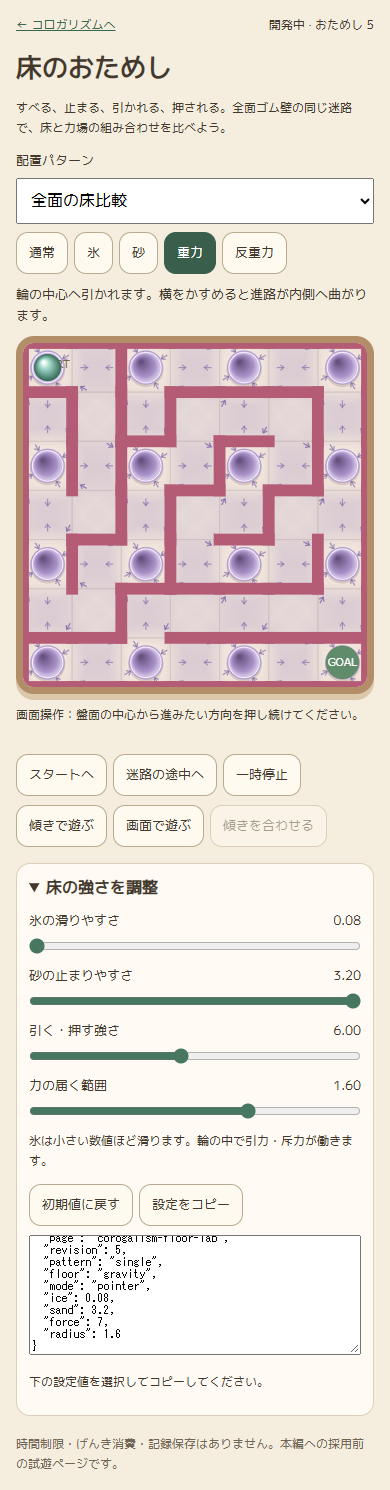
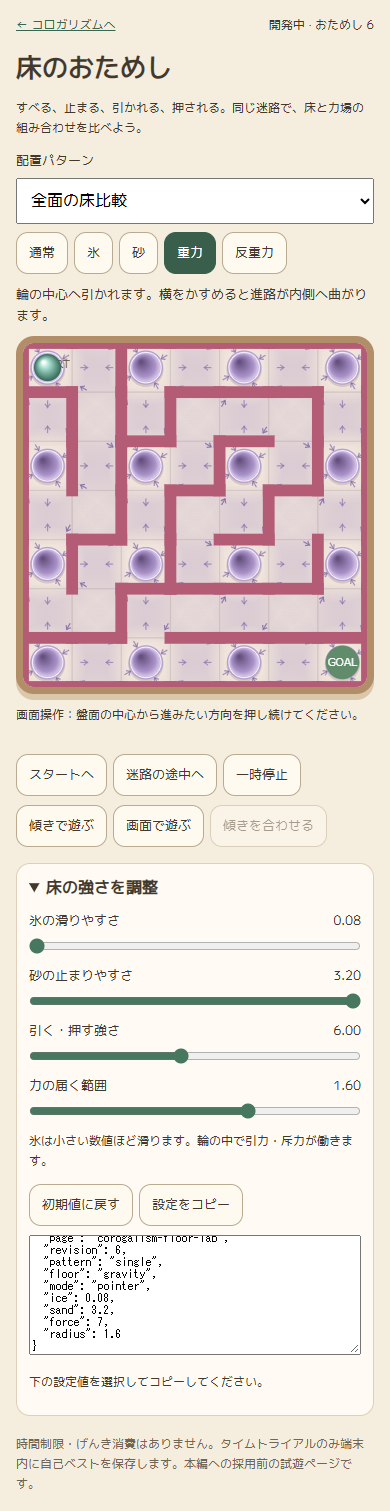
feat(T-252): add normal-wall ice and sand time trial

Changed region(s): [[0.0308, 0.0, 0.9538, 0.9879], [0.7077, 0.0, 0.7692, 0.0309], [0.9231, 0.1235, 0.9538, 0.1544]]

diff --git a/src/lab/floorLab.js b/src/lab/floorLab.js
@@ -1,3 +1,4 @@
+import { createTimeTrial, advanceTrial, trialKey, readTrialBest, saveTrialBest } from './timeTrial.js';
 import { BASE, FLOOR_LAB } from '../config/gameConfig.js';
 import { stepPhysics } from '../physics/integrator.js';
 import { createFixedCamera } from '../render/camera.js';
@@ -12,7 +13,16 @@ const $ = id => document.getElementById(id);
 const canvas = $('board'), ctx = canvas.getContext('2d');
 const { stage, actor } = createFloorLab();
 const settings = { ...FLOOR_LAB }, tilt = createTiltVector();
-let pattern = 'single';
+let pattern = new URLSearchParams(location.search).get('pattern') === 'timeTrial' ? 'timeTrial' : 'single';
+let trial = createTimeTrial();
+const trialStorage = { getItem: key => localStorage.getItem(key), setItem: (key, value) => localStorage.setItem(key, value) };
+function refreshTrial() {
+  $('trial-info').hidden = pattern !== 'timeTrial';
+  $('trial-time').textContent = (trial.elapsedMs / 1000).toFixed(2);
+  const best = readTrialBest(trialStorage, trialKey(settings, mode));
+  $('trial-best').textContent = best === null ? '—' : (best / 1000).toFixed(2) + ' 秒';
+  $('trial-note').textContent = trial.practice ? '途中移動・操作変更あり：練習のため記録しません。スタートへ戻すと再計測できます。' : '動き始めると計測開始。同じ床設定・操作方法ごとに記録します。';
+}
 let type = 'normal', mode = 'pointer', paused = false, last = 0, sensorTimer, requestId = 0;
 let camera, won = false, visualTime = 0;
 const reducedMotion = matchMedia('(prefers-reduced-motion: reduce)');
@@ -21,6 +31,7 @@ const sensor = createTiltSource({ onCalibrated: () => { $('status').textContent 
 const receive = (x, y) => tilt.setRaw(x, y);
 function pointerMode(message = '画面操作：盤面の中心から進みたい方向を押し続けてください。') {
   requestId++; clearTimeout(sensorTimer); sensor.stop(); pointer.stop(); tilt.reset();
+  if (mode !== 'pointer' && trial.started) trial.practice = true;
   mode = 'pointer'; pointer.start(receive); $('calibrate').disabled = true;
   $('status').textContent = message;
 }
@@ -36,7 +47,7 @@ $('sensor').onclick = async () => {
   const permission = await sensor.requestPermission();
   if (id !== requestId) return;
   if (permission === 'denied' || permission === 'unsupported') { pointerMode('センサーを利用できないため、画面操作で遊べます。'); return; }
-  pointer.stop(); tilt.reset(); mode = 'tilt'; sensor.calibrate();
+  pointer.stop(); tilt.reset(); if (mode !== 'tilt' && trial.started) trial.practice = true; mode = 'tilt'; sensor.calibrate();
   sensor.start(receive, () => BASE.maxTiltAngleDeg);
   $('calibrate').disabled = false;
   $('status').textContent = '縦持ちで遊ぶ姿勢のまま、少し静止してください。';
@@ -44,12 +55,13 @@ $('sensor').onclick = async () => {
 };
 $('pointer').onclick = () => pointerMode();
 $('calibrate').onclick = () => { tilt.reset(); sensor.calibrate(); $('status').textContent = '今の姿勢で少し静止してください。'; scheduleFallback(requestId); };
-function reset(x = 0.5, y = 0.5) { Object.assign(actor, { x, y, vx: 0, vy: 0 }); tilt.reset(); won = false; }
+function reset(x = 0.5, y = 0.5) { Object.assign(actor, { x, y, vx: 0, vy: 0 }); tilt.reset(); won = false; trial = createTimeTrial(); trial.practice = x !== .5 || y !== .5; refreshTrial(); if (pattern === 'timeTrial') $('status').textContent = trial.practice ? '途中から練習中。自己ベストには記録しません。' : '動き始めると計測します。砂の手前まで勢いをつけてみよう。'; }
 $('reset').onclick = () => reset();
 $('plaza').onclick = () => { const cell = stage.maze.path[stage.labSites.length ? Math.max(0, stage.labSites[0].index-2) : Math.floor(stage.maze.path.length / 2)]; reset(cell.x + .5, cell.y + .5); };
 $('pause').onclick = () => { paused = !paused; tilt.reset(); $('pause').textContent = paused ? '再開' : '一時停止'; };
 function updateFloor() {
   applyFloor(stage, type, settings, pattern);
+  refreshTrial();
   $('hint').textContent = pattern === 'single' ? FLOOR_OPTIONS[type].hint : PATTERNS[pattern].hint;
   $('floors').hidden = pattern !== 'single';
   $('plaza').textContent = stage.labSites.length ? '試験区間へ' : '迷路の途中へ';
@@ -57,16 +69,17 @@ function updateFloor() {
   for (const key of Object.keys(settings)) { $(key).value = settings[key]; $(key + '-value').textContent = settings[key].toFixed(2); }
 }
 for (const [key, option] of Object.entries(PATTERNS)) { const el = document.createElement('option'); el.value = key; el.textContent = option.name; $('pattern').append(el); }
+$('pattern').value = pattern;
 $('pattern').onchange = () => { pattern = $('pattern').value; updateFloor(); reset(); };
 for (const [key, option] of Object.entries(FLOOR_OPTIONS)) {
   const button = document.createElement('button'); button.textContent = option.name; button.dataset.type = key;
   button.onclick = () => { type = key; updateFloor(); reset(); };
   $('floors').append(button);
 }
-for (const key of Object.keys(settings)) $(key).oninput = () => { settings[key] = Number($(key).value); updateFloor(); };
+for (const key of Object.keys(settings)) $(key).oninput = () => { settings[key] = Number($(key).value); updateFloor(); if (pattern === 'timeTrial') reset(); };
 $('defaults').onclick = () => { Object.assign(settings, FLOOR_LAB); updateFloor(); reset(); };
 $('copy').onclick = async () => {
-  const text = JSON.stringify({ page: 'corogalism-floor-lab', revision: 5, pattern, floor: type, mode, ...settings }, null, 2);
+  const text = JSON.stringify({ page: 'corogalism-floor-lab', revision: 6, pattern, floor: type, mode, ...settings }, null, 2);
   $('settings-text').hidden = false; $('settings-text').value = text;
   try { await navigator.clipboard.writeText(text); $('copy-status').textContent = 'コピーしました。この設定と感想を送ってください。'; }
   catch { $('settings-text').focus(); $('settings-text').select(); $('copy-status').textContent = '下の設定値を選択してコピーしてください。'; }
@@ -95,7 +108,7 @@ function draw(now) {
     const p = camera.toScreen(x, y); ctx.strokeStyle = '#e8ddc8'; ctx.strokeRect(p.px, p.py, camera.toPx(1), camera.toPx(1));
   }
   drawFloorVisuals(ctx, camera, { type, settings, actor, time: visualTime, reduced: reducedMotion.matches, stage });
-  for (const wall of stage.walls) { const p = camera.toScreen(wall.x, wall.y); ctx.fillStyle = '#b45b76'; ctx.fillRect(p.px, p.py, camera.toPx(wall.w), camera.toPx(wall.h)); }
+  for (const wall of stage.walls) { const p = camera.toScreen(wall.x, wall.y); ctx.fillStyle = wall.materialId === 'rubber' ? '#b45b76' : '#ab865f'; ctx.fillRect(p.px, p.py, camera.toPx(wall.w), camera.toPx(wall.h)); }
   circle(6.5, 6.5, .34, '#618c6b'); label('GOAL', 6.5, 6.57, '#fff');
   label('START', .6, .5);
   const p = camera.toScreen(actor.x, actor.y), r = camera.toPx(actor.r);
@@ -105,17 +118,28 @@ function draw(now) {
   if (paused) label('一時停止中', 3.5, 3.2, '#44382c');
 }
 function frame(now) {
-  const dt = Math.min((now - (last || now)) / 1000, .05); last = now;
-  if (!paused && !document.hidden && !(mode === 'tilt' && sensor.needsCalibration)) {
+  const elapsed = Math.max(0, now - (last || now));
+  const dt = Math.min(elapsed / 1000, .05); last = now;
+  if (!(pattern === 'timeTrial' && trial.finished) && !paused && !document.hidden && !(mode === 'tilt' && sensor.needsCalibration)) {
     visualTime += dt * 1000;
     // 描画頻度による操作差を抑え、小さい刻みで既存の物理を進める。
     const count = Math.max(1, Math.ceil(dt / (1 / 120)));
     for (let i = 0; i < count; i++) { tilt.update(dt / count, BASE.inputSmoothing); stepPhysics({ actor, stage, tilt: tilt.value, base: BASE, dt: dt / count }); }
+    if (pattern === 'timeTrial') {
+      const wasFinished = trial.finished;
+      advanceTrial(trial, elapsed, Math.hypot(actor.x-.5,actor.y-.5)>.02, Math.hypot(actor.x-6.5,actor.y-6.5)<.35);
+      if (!wasFinished && trial.finished) {
+        const saved = saveTrialBest(trialStorage, trialKey(settings,mode), trial);
+        $('status').textContent = `ゴール！ ${(trial.elapsedMs/1000).toFixed(2)}秒。` + (trial.practice ? '練習のため記録対象外です。' : saved ? '自己ベストを確認しました。' : '端末に記録を保存できませんでした。');
+        won = true;
+      }
+    }
     if (!won && Math.hypot(actor.x - 6.5, actor.y - 6.5) < .35) { won = true; $('status').textContent = 'ゴール！ スタートへ戻るか、ほかの床でも試してみよう。'; }
   }
+  if (pattern === 'timeTrial') refreshTrial();
   draw(now); requestAnimationFrame(frame);
 }
 document.addEventListener('visibilitychange', () => { tilt.reset(); last = 0; if (document.hidden) { paused = true; $('pause').textContent = '再開'; } });
 window.addEventListener('blur', () => { tilt.reset(); paused = true; $('pause').textContent = '再開'; });
 pointerMode(); updateFloor(); requestAnimationFrame(frame);
-if (new URLSearchParams(location.search).has('debug')) window.__floorLab = { stage, actor, settings, get pattern() { return pattern; }, get type() { return type; }, get mode() { return mode; } };
+if (new URLSearchParams(location.search).has('debug')) window.__floorLab = { stage, actor, settings, get trial() { return trial; }, get pattern() { return pattern; }, get type() { return type; }, get mode() { return mode; } };

diff --git a/floor-lab.html b/floor-lab.html
@@ -7,12 +7,13 @@
   <link rel="stylesheet" href="floor-lab.css">
 </head>
 <body><main>
-  <header><a href="./">← コロガリズムへ</a><span>開発中 · おためし 5</span></header>
+  <header><a href="./">← コロガリズムへ</a><span>開発中 · おためし 6</span></header>
   <h1>床のおためし</h1>
-  <p class="intro">すべる、止まる、引かれる、押される。全面ゴム壁の同じ迷路で、床と力場の組み合わせを比べよう。</p>
+  <p class="intro">すべる、止まる、引かれる、押される。同じ迷路で、床と力場の組み合わせを比べよう。</p>
   <label for="pattern">配置パターン</label><select id="pattern" style="width:100%;padding:10px;margin:8px 0;font:inherit"></select>
   <nav id="floors" aria-label="床を選ぶ"></nav>
   <p id="hint"></p>
+  <p id="trial-info" hidden><strong>経過 <span id="trial-time">0.00</span> 秒</strong>　自己ベスト <span id="trial-best">—</span><br><small id="trial-note">動き始めると計測開始。同じ床設定・操作方法ごとに記録します。</small></p>
   <div class="board"><canvas id="board" aria-label="床の試遊コース。画面操作では進みたい方向を押し続けます。"></canvas></div>
   <p id="status" role="status">画面操作：盤面の中心から進みたい方向を押し続けてください。</p>
   <div class="buttons"><button id="reset">スタートへ</button><button id="plaza">迷路の途中へ</button><button id="pause">一時停止</button></div>
@@ -27,5 +28,5 @@
     <textarea id="settings-text" aria-label="共有する設定値" readonly hidden></textarea>
     <p id="copy-status" role="status"></p>
   </details>
-  <footer>時間制限・げんき消費・記録保存はありません。本編への採用前の試遊ページです。</footer>
+  <footer>時間制限・げんき消費はありません。タイムトライアルのみ端末内に自己ベストを保存します。本編への採用前の試遊ページです。</footer>
 </main><script type="module" src="src/lab/boot.js"></script></body></html>

diff --git a/src/lab/floorModel.js b/src/lab/floorModel.js
@@ -23,6 +23,7 @@ export const PATCH_CELLS = Array.from({ length: 49 }, (_, i) => ({ x: i % 7, y: 
 export const FIELD_CENTERS = [0.5, 2.5, 4.5, 6.5].flatMap(y => [0.5, 2.5, 4.5, 6.5].map(x => ({ x, y })));
 
 export const PATTERNS = {
+  timeTrial: { name: '氷＋砂 タイムトライアル', hint: '通常壁・ほぼ全面氷。曲がり角の直前の砂で減速。検証ページのみ壁ダメージなし・時間制限なし。' },
   single: { name: '全面の床比較', hint: '' },
   iceRubber: { name: '全面氷＋ゴム', hint: '採用決定の組み合わせ。反発と慣性を制御してゴールへ。' },
   iceSand: { name: '氷＋砂', hint: '氷で滑走し、曲がり角の手前と角の砂でブレーキ。' },
@@ -47,11 +48,17 @@ export function cornerSites(maze) {
 
 export function applyFloor(stage, type, settings, pattern = 'single') {
   stage.zones = [];
+  for (const wall of stage.walls) wall.materialId = pattern === 'timeTrial' ? 'default' : 'rubber';
   stage.labPattern = pattern;
   stage.labSites = [];
   if (pattern !== 'single') {
     const sites = cornerSites(stage.maze);
     const floor = (kind, cells) => { if (cells.length) stage.zones.push({ kind, cells, ...(kind === 'ice' ? ICE_LAB : {}), frictionK: settings[kind], forceX: 0, forceY: 0 }); };
+    if (pattern === 'timeTrial') {
+      const sand = sites.map(site => stage.maze.path[site.index-1]);
+      floor('sand', sand);
+      floor('ice', PATCH_CELLS.filter(c=>!sand.some(s=>s.x===c.x&&s.y===c.y)));
+    }
     if (pattern === 'iceRubber') floor('ice', PATCH_CELLS);
     if (pattern === 'iceSand') {
       const sand = sites.flatMap(site => stage.maze.path.slice(site.index-1,site.index+1));

diff --git a/test/floor-trial.test.js b/test/floor-trial.test.js
@@ -1,0 +1,22 @@
+import test from 'node:test';
+import assert from 'node:assert/strict';
+import { createTimeTrial, advanceTrial, trialKey, readTrialBest, saveTrialBest } from '../src/lab/timeTrial.js';
+test('動き始めからゴールまで計測し、完走後は時計を固定する', () => {
+  const t=createTimeTrial(); advanceTrial(t,500,false,false); assert.equal(t.elapsedMs,0);
+  advanceTrial(t,100,true,false); advanceTrial(t,300,false,true); advanceTrial(t,900,true,false);
+  assert.equal(t.elapsedMs,400); assert.equal(t.finished,true);
+});
+test('通常完走だけ保存し、遅い記録・練習・破損保存・保存不可を処理する', () => {
+  const data=new Map(), storage={getItem:k=>data.get(k),setItem:(k,v)=>data.set(k,v)};
+  const t={finished:true,practice:false,elapsedMs:500};
+  assert.equal(saveTrialBest(storage,'a',t),true);
+  saveTrialBest(storage,'a',{...t,elapsedMs:900}); assert.equal(readTrialBest(storage,'a'),500);
+  saveTrialBest(storage,'a',{...t,elapsedMs:300}); assert.equal(readTrialBest(storage,'a'),300);
+  assert.equal(saveTrialBest(storage,'a',{...t,practice:true,elapsedMs:100}),false);
+  assert.equal(readTrialBest(storage,'a'),300);
+  data.set('bad','NaN'); assert.equal(readTrialBest(storage,'bad'),null);
+  const blocked={getItem(){throw Error();},setItem(){throw Error();}};
+  assert.equal(readTrialBest(blocked,'a'),null); assert.equal(saveTrialBest(blocked,'a',t),false);
+  assert.notEqual(trialKey({ice:.08,sand:3.2},'tilt'),trialKey({ice:.08,sand:3.2},'pointer'));
+  assert.notEqual(trialKey({ice:.08,sand:3.2},'tilt'),trialKey({ice:.2,sand:3.2},'tilt'));
+});

diff --git a/src/lab/timeTrial.js b/src/lab/timeTrial.js
@@ -1,0 +1,28 @@
+// 検証ページ専用。本編の記録と保存キーを分ける。
+export function createTimeTrial() {
+  return { elapsedMs: 0, started: false, finished: false, practice: false };
+}
+export function advanceTrial(trial, elapsedMs, moved, goal) {
+  if (trial.finished) return;
+  if (moved) trial.started = true;
+  if (!trial.started) return;
+  trial.elapsedMs += Math.max(0, elapsedMs);
+  if (goal) trial.finished = true;
+}
+export function trialKey(settings, mode) {
+  return `corogalism-floor-trial-v1-250-${mode}-${settings.ice}-${settings.sand}`;
+}
+export function readTrialBest(storage, key) {
+  try {
+    const value = Number(storage.getItem(key));
+    return Number.isFinite(value) && value > 0 ? value : null;
+  } catch { return null; }
+}
+export function saveTrialBest(storage, key, trial) {
+  if (!trial.finished || trial.practice || trial.elapsedMs <= 0) return false;
+  try {
+    const old = readTrialBest(storage, key);
+    if (old === null || trial.elapsedMs < old) storage.setItem(key, String(trial.elapsedMs));
+    return true;
+  } catch { return false; }
+}

diff --git a/precache.js b/precache.js
@@ -1,4 +1,4 @@
-self.PRECACHE_VERSION = 'c02829abe4eb2e77';
+self.PRECACHE_VERSION = '5615560d9f470047';
 self.PRECACHE_FILES = [
   "assets/audio/bgm.wav",
   "assets/audio/rolling-loop.wav",
@@ -48,6 +48,7 @@ self.PRECACHE_FILES = [
   "src/lab/floorLab.js",
   "src/lab/floorModel.js",
   "src/lab/floorVisuals.js",
+  "src/lab/timeTrial.js",
   "src/main.js",
   "src/maze/generator.js",
   "src/maze/path.js",

diff --git a/docs/handoff-codex.md b/docs/handoff-codex.md
@@ -2,6 +2,8 @@
 
 ## 現在地
 
+- T-252: おためし6に通常壁・氷＋砂タイムトライアル。直前だけ砂、時間計測・設定別自己ベスト。本編の壁ダメージは未変更。
+
 - T-251: おためし5に6つの複合パターンを追加。全面氷＋全ゴムは採用決定、本編抽選への反映・時間調整は未実施。その他は試遊評価待ち。
 
 - T-250: おためし4。固定迷路・全ゴム壁・全面床へ変更。力場は複数配置で比較、詳細docs/floor-lab.md。
